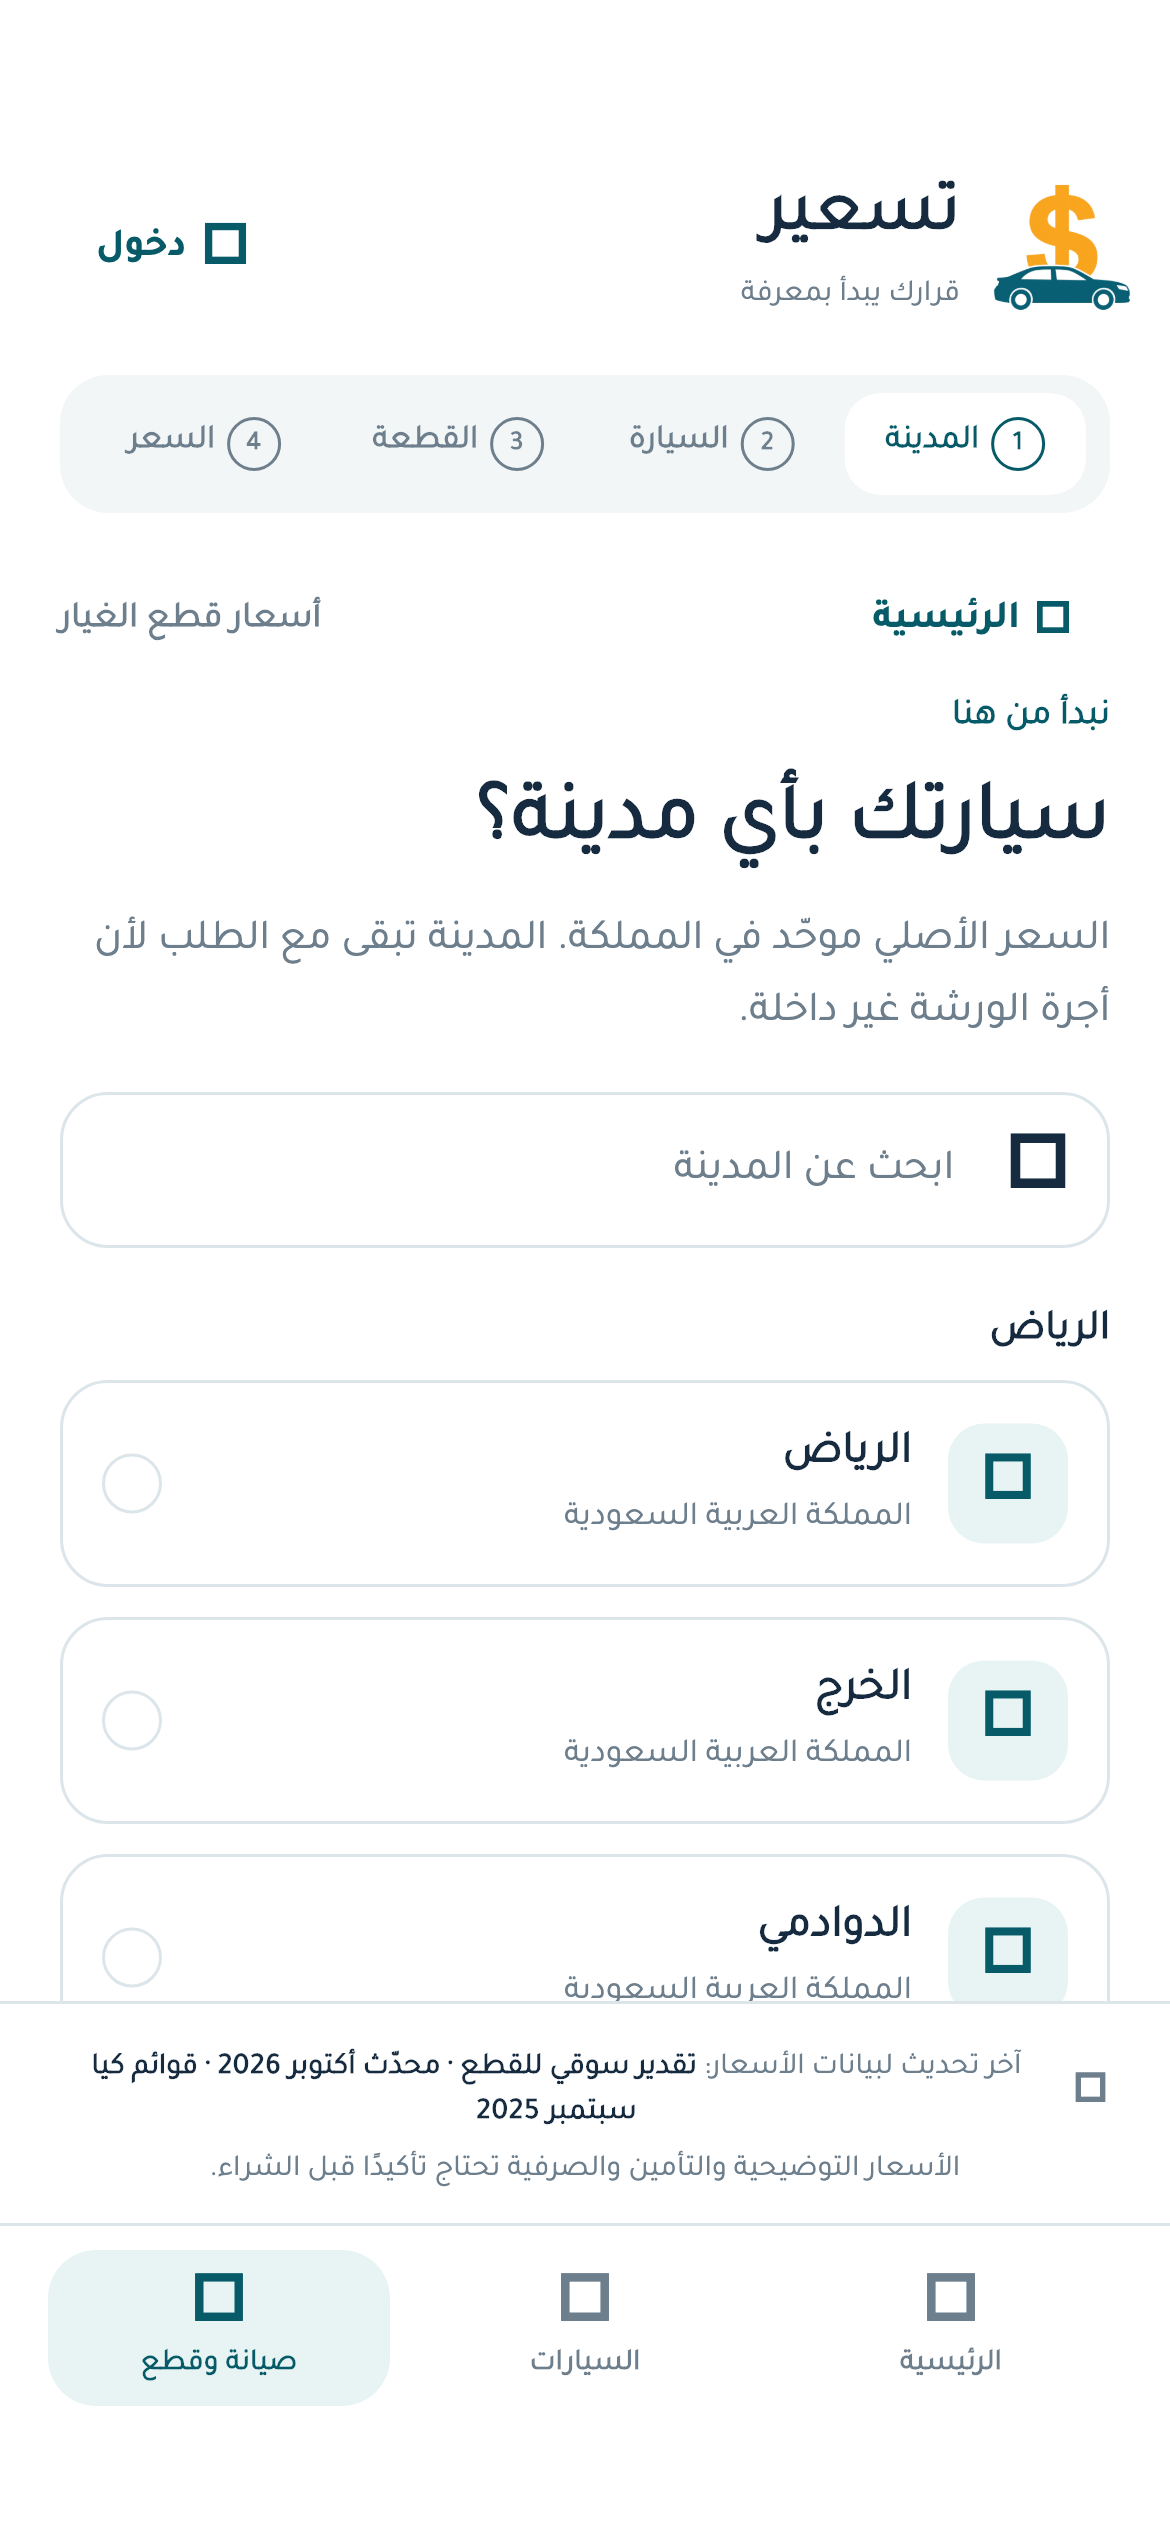
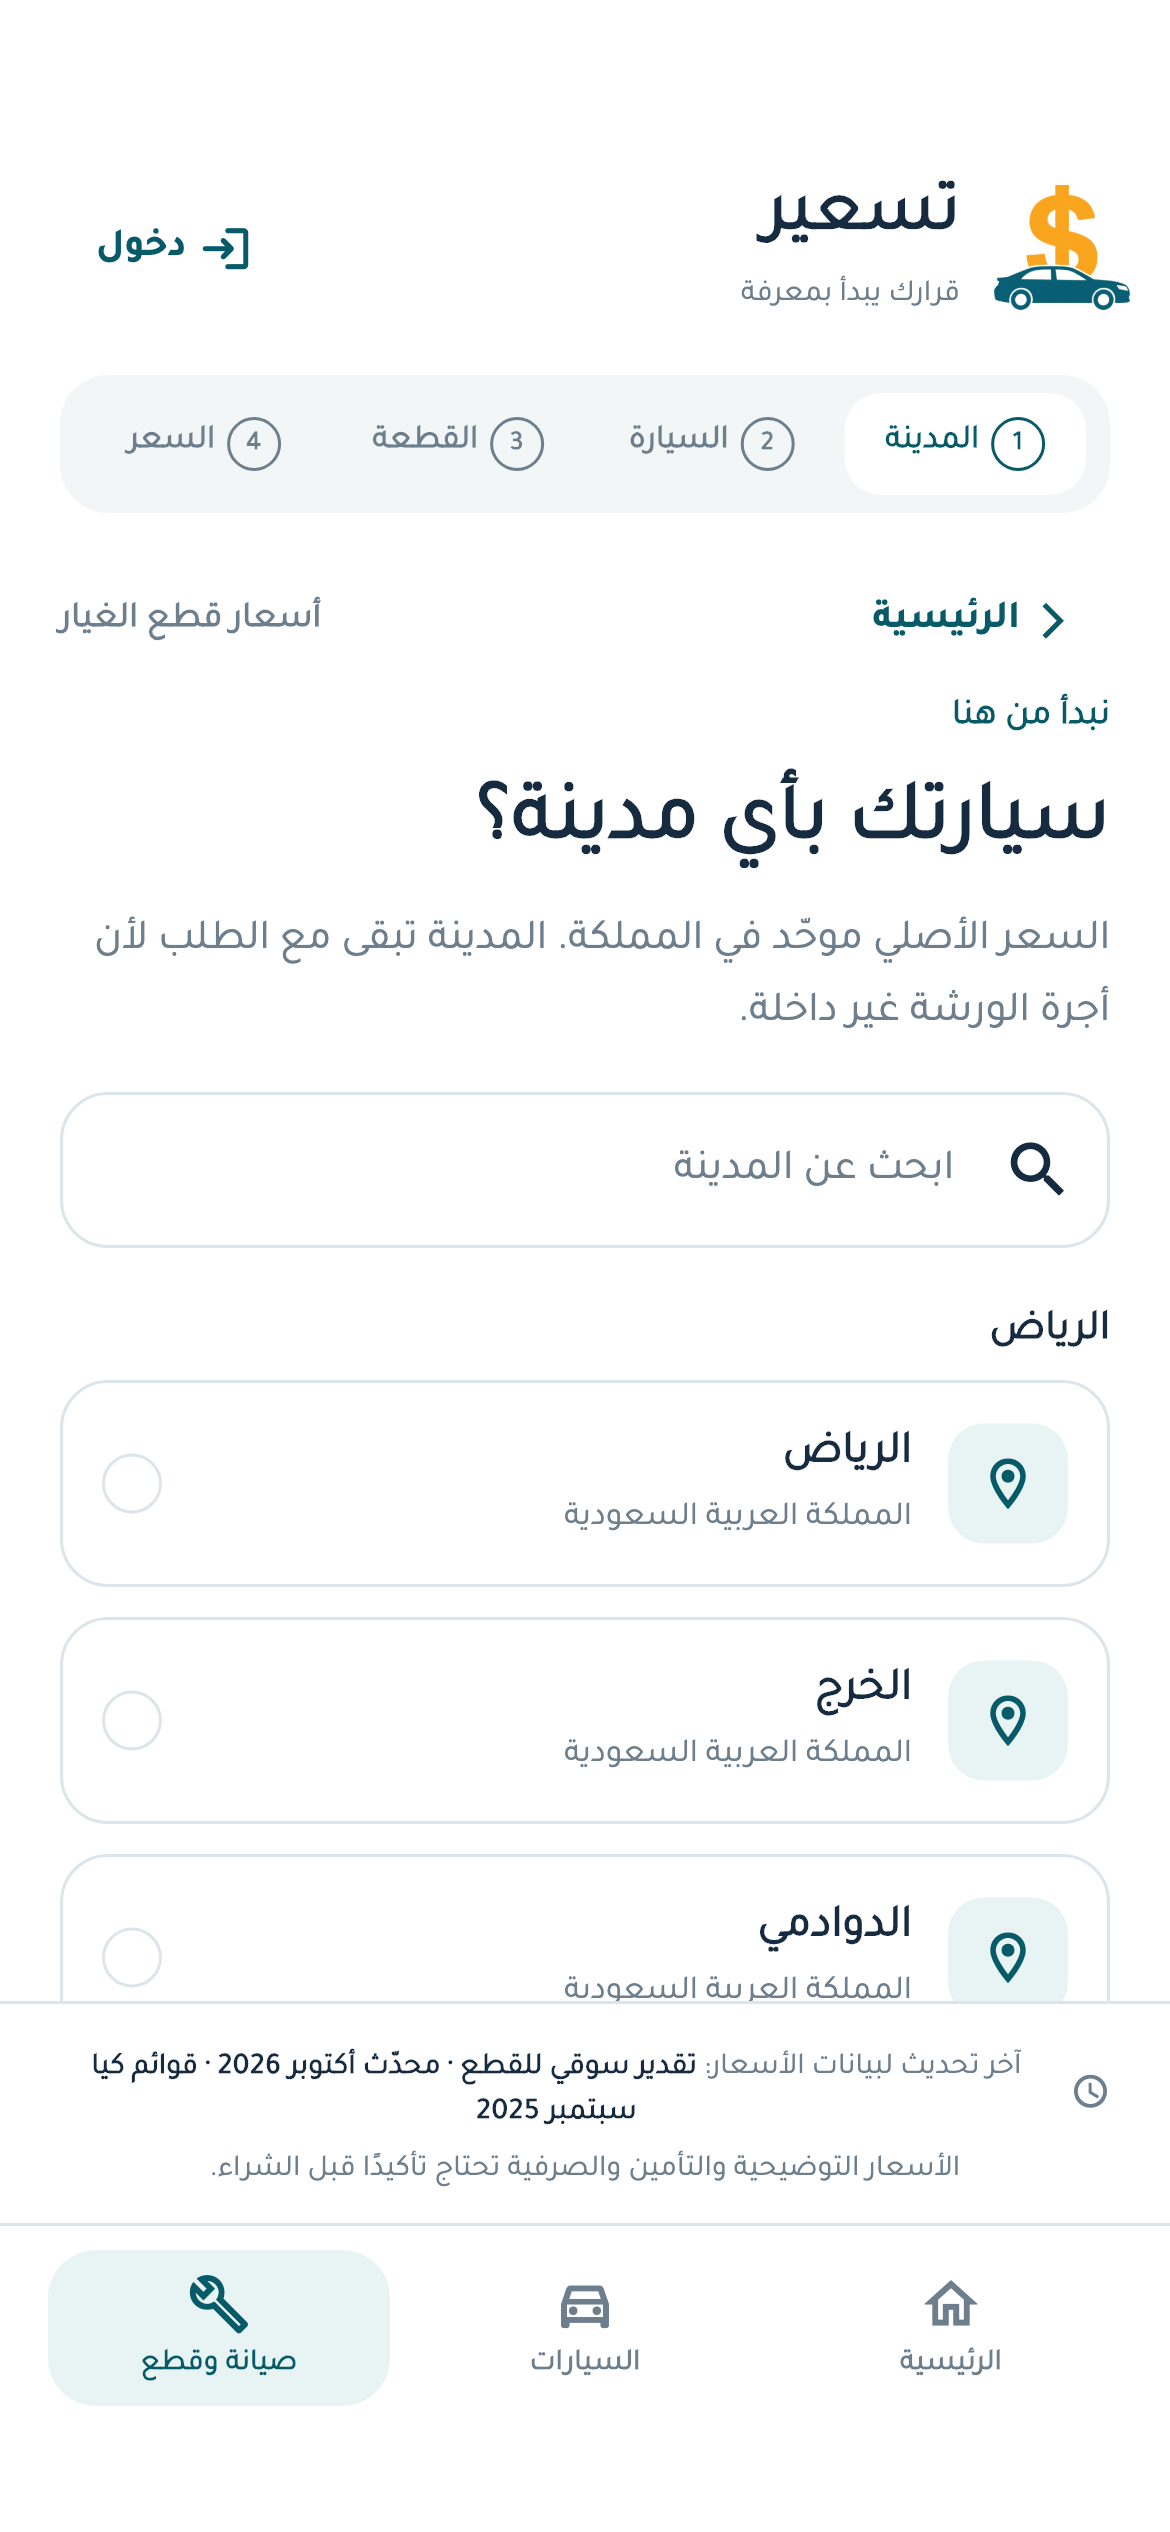
أصلح لقطات README بتحميل أيقونات Material وخطوط الأزرار.

diff --git a/mobile/tool/capture_screenshots.dart b/mobile/tool/capture_screenshots.dart
@@ -2,10 +2,12 @@
 // From mobile/: flutter test tool/capture_screenshots.dart
 
 import 'dart:io';
+import 'dart:typed_data';
 import 'dart:ui' as ui;
 
 import 'package:flutter/material.dart';
 import 'package:flutter/rendering.dart';
+import 'package:flutter/services.dart';
 import 'package:flutter_test/flutter_test.dart';
 import 'package:google_fonts/google_fonts.dart';
 import 'package:shared_preferences/shared_preferences.dart';
@@ -16,18 +18,58 @@ import 'package:taseer/services/billing.dart';
 
 const _shotKey = ValueKey('readme-shot');
 
+Future<void> _loadFontFile(String family, File file) async {
+  if (!file.existsSync()) return;
+  final bytes = await file.readAsBytes();
+  final loader = FontLoader(family);
+  loader.addFont(Future.value(ByteData.sublistView(Uint8List.fromList(bytes))));
+  await loader.load();
+}
+
+Future<void> _loadMaterialIcons() async {
+  var root = Platform.environment['FLUTTER_ROOT'];
+  if (root == null || root.isEmpty) {
+    final which = await Process.run('which', ['flutter']);
+    if (which.exitCode == 0) {
+      final flutterPath = (which.stdout as String).trim();
+      root = File(flutterPath).parent.parent.path;
+    }
+  }
+  if (root == null) return;
+  final otf = File(
+    '$root/bin/cache/artifacts/material_fonts/MaterialIcons-Regular.otf',
+  );
+  await _loadFontFile('MaterialIcons', otf);
+}
+
+Future<void> _warmTajawal() async {
+  GoogleFonts.config.allowRuntimeFetching = false;
+  // Touch every weight the UI uses so assets under google_fonts/ load.
+  for (final weight in [
+    FontWeight.w300,
+    FontWeight.w400,
+    FontWeight.w500,
+    FontWeight.w700,
+    FontWeight.w800,
+    FontWeight.w900,
+  ]) {
+    GoogleFonts.tajawal(fontWeight: weight);
+  }
+  GoogleFonts.tajawalTextTheme();
+  await GoogleFonts.pendingFonts();
+}
+
 void main() {
   TestWidgetsFlutterBinding.ensureInitialized();
   SharedPreferences.setMockInitialValues({});
-  GoogleFonts.config.allowRuntimeFetching = false;
 
   late Catalog catalog;
   late Directory outDir;
 
   setUpAll(() async {
+    await _loadMaterialIcons();
+    await _warmTajawal();
     catalog = await Catalog.load();
-    GoogleFonts.tajawalTextTheme();
-    await GoogleFonts.pendingFonts();
     outDir = Directory('${Directory.current.path}/../docs/screenshots');
     if (!outDir.existsSync()) outDir.createSync(recursive: true);
   });
@@ -53,7 +95,12 @@ void main() {
       ),
     );
     await tester.pump();
-    await tester.pump(const Duration(milliseconds: 80));
+    // Decode Image.asset frames.
+    await tester.runAsync(() async {
+      await Future<void>.delayed(const Duration(milliseconds: 50));
+    });
+    await tester.pump();
+    await tester.pump(const Duration(milliseconds: 100));
 
     await tester.runAsync(() async {
       final boundary =
